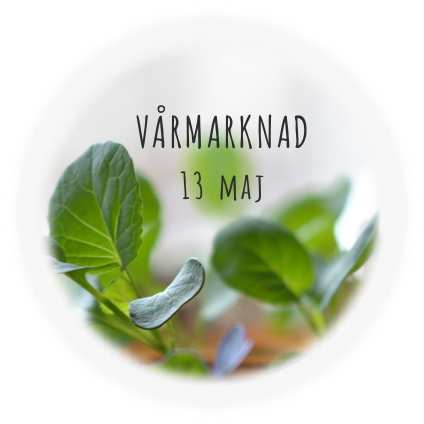
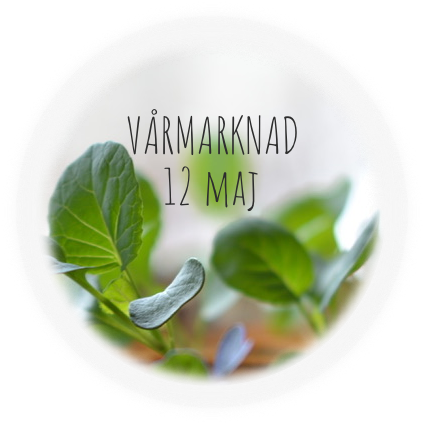
fixade puff + datum vårmarknad

Changed region(s): [[0.2759, 0.2453, 0.7358, 0.3679], [0.3986, 0.3986, 0.6132, 0.4906]]

diff --git a/index.php b/index.php
@@ -23,15 +23,15 @@
     <div class="container center-align">
       <div class="col--6 right-align">
         
-        <?php include('texts/far_teaser.php'); ?>
+        <?php //include('texts/far_teaser.php'); ?>
         <?php //include('texts/julmarknad_teaser.php'); ?>
-        <?php //include('texts/varmarknad_teaser.php'); ?>
+        <?php include('texts/varmarknad_teaser.php'); ?>
 
       </div> 
       <div class="col--6">
         <!--<img class="lamm" src="../img/jul-round.png" alt="julmarknad" />-->
-        <img class="lamm" src="../img/lamm-round.png" alt="lamm" />
-        <!--<img class="lamm" src="../img/var-round.png" alt="lamm" /> -->
+        <!--<img class="lamm" src="../img/lamm-round.png" alt="lamm" /> -->
+        <img class="lamm" src="../img/var-round.png" alt="lamm" />
       </div>
     </div>
   </div>

diff --git a/texts/varmarknad_teaser.php b/texts/varmarknad_teaser.php
@@ -4,8 +4,8 @@ echo '<h2>Vår i Verkligheten</h2>';
 
 echo '<p>Vårmarknad här i Verkligheten bjuder på djurmys, vårkänslor, fika, försäljning av lammskinn och förmodligen en hel massa pyssel, stickat, virkat, sytt och syltat. Håll utkik på vår facebook sida för mer information!</p>';
 
-echo '<p class="strong">Nästa vårmarknad äger rum 13 maj 2018!</p>';
+echo '<p class="strong">Nästa vårmarknad äger rum 12 maj 2019!</p>';
 
-echo '<a class="readmore" href="aktuellt.php">Läs mer om Adventsmyset här</a>';
+echo '<a class="readmore" href="aktuellt.php">Läs mer om Vårmarknaden här</a>';
 
 ?>

diff --git a/texts/varmarknad.php b/texts/varmarknad.php
@@ -8,7 +8,7 @@
     <p>Missa heller inte att kika på vad våra inbjudna försäljare har gjort. Hantverk i garn, tyg och trä, egensydda barnkläder, luffarslöjd och säkert fler saker kommer också att finnas på borden.</p>
     <p>Allt i liten skala och med omtanke om människor och miljö.</p>';
   echo '<p>Gratis parkering och inträde!</p>';
-  echo '<p class="strong">Nästa vårmarknad äger rum våren 2019!</p>';
+  echo '<p class="strong">Nästa vårmarknad äger rum 12 maj 2019!</p>';
 
   echo '</div>';
     echo '<div class="col--6">  
